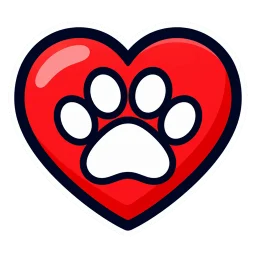
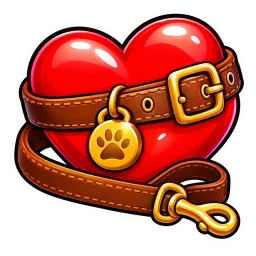
Auto-save 2026-11-08 15:07

diff --git a/src/pages/appWeb/appWeb.css b/src/pages/appWeb/appWeb.css
@@ -467,7 +467,7 @@
 @media(min-width:900px){.aw .life .split{align-items:stretch}.aw .life-txt{align-self:center}.aw .fresco{aspect-ratio:auto;order:0;min-height:100%}}
 .aw .verbs{display:grid;grid-template-columns:1fr 1fr;gap:var(--s-sm);margin-top:var(--s-xl)}
 .aw .verb{width:100%;height:100%;text-align:left;font:inherit;color:inherit;cursor:pointer;display:grid;grid-template-columns:auto 1fr;column-gap:var(--s-md);align-items:center;padding:var(--s-lg);transition:transform .35s cubic-bezier(.2,.7,.2,1),box-shadow .35s}
-.aw .verb .ic{grid-row:1/3;display:grid;place-items:center;width:64px;height:64px;transition:transform .45s cubic-bezier(.3,1.6,.5,1)}
+.aw .verb .ic{grid-row:1/3;display:grid;place-items:center;width:72px;height:72px;transition:transform .45s cubic-bezier(.3,1.6,.5,1)}
 .aw .verb .ic img{width:100%;height:100%;object-fit:contain;display:block}
 .aw .verb b{display:block;font:900 24px/1.1 var(--font-title);color:var(--ink-strong);letter-spacing:.02em}
 .aw .verb .vp{font-size:var(--t-label);color:var(--ink-soft);line-height:1.35;max-height:0;opacity:0;overflow:hidden;transition:max-height .4s ease,opacity .3s ease,margin .3s}

diff --git a/src/pages/AppWeb.tsx b/src/pages/AppWeb.tsx
@@ -224,7 +224,7 @@ function useOnScreen(selector: string) {
 }
 
 /** Blok, ktorý sa vynorí pri scrolle (`.rv` → `.in`). */
-/** Život hrou: farebné kresby bez kartuše (Matej 8. 11.), výber a alternatívy v továrni `plany/ikonky/`, skupina „Web: Život hrou“. */
+/** Život hrou: bohaté kresby bez kartuše ako triplist (Matej 8. 11.), výber a alternatívy v továrni `plany/ikonky/`, skupina „Web: Život hrou“. */
 const VERBS = [1, 2, 3, 4, 5, 6];
 
 function Rv({ as = 'div', d = 0, className = '', children }: { as?: 'div' | 'p' | 'details'; d?: number; className?: string; children: ReactNode }) {
